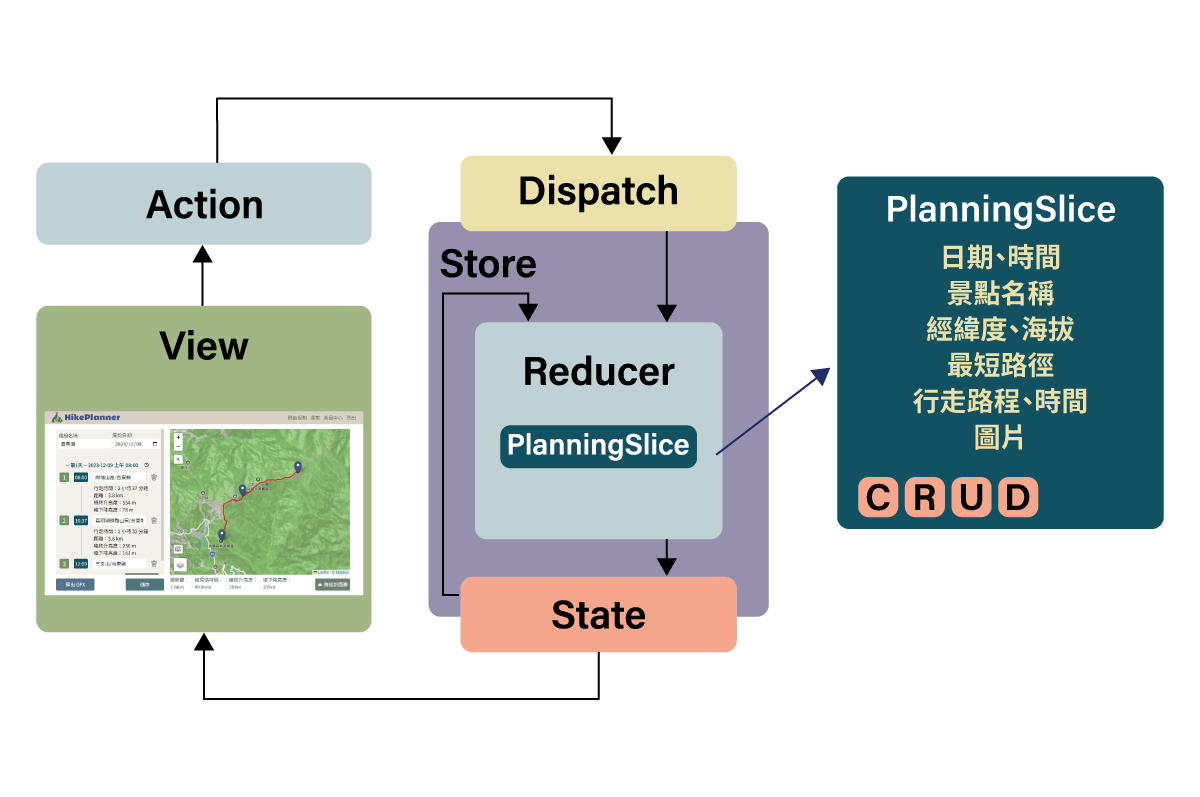
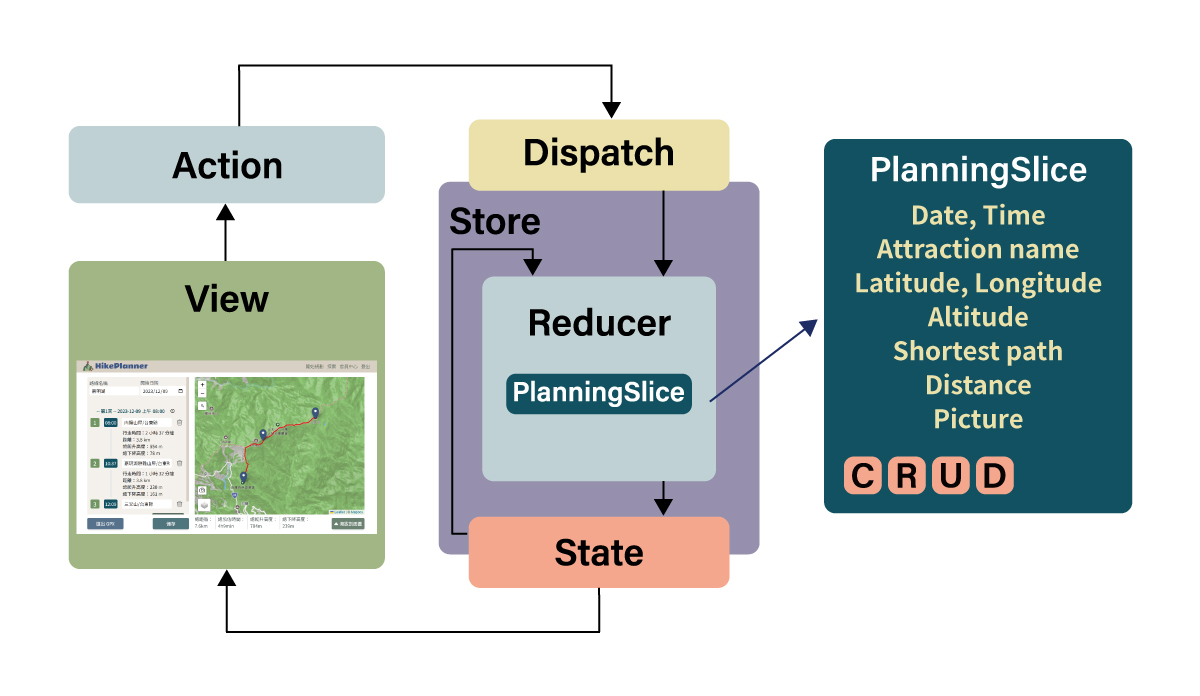
fix: readme redux content

Changed region(s): [[0.0308, 0.0905, 0.9867, 0.8448], [0.185, 0.875, 0.5242, 0.9052]]

diff --git a/README.md b/README.md
@@ -23,6 +23,9 @@ A free platform for planning mountain climbing routes in Taiwan, offering trip c
 #### Integrating Leaflet maps, OpenRouteService for calculating the shortest path, and Chart.js for visualizing charts to develop the main features.
 ![technologies](public/readme/technologies.jpg)
 
+#### Hiking plans are managed using Redux Toolkit.
+![map](public/readme/redux.jpg)
+
 #### Interactive content linking map and route planning layers.
 ![map](public/readme/map.gif)
 
